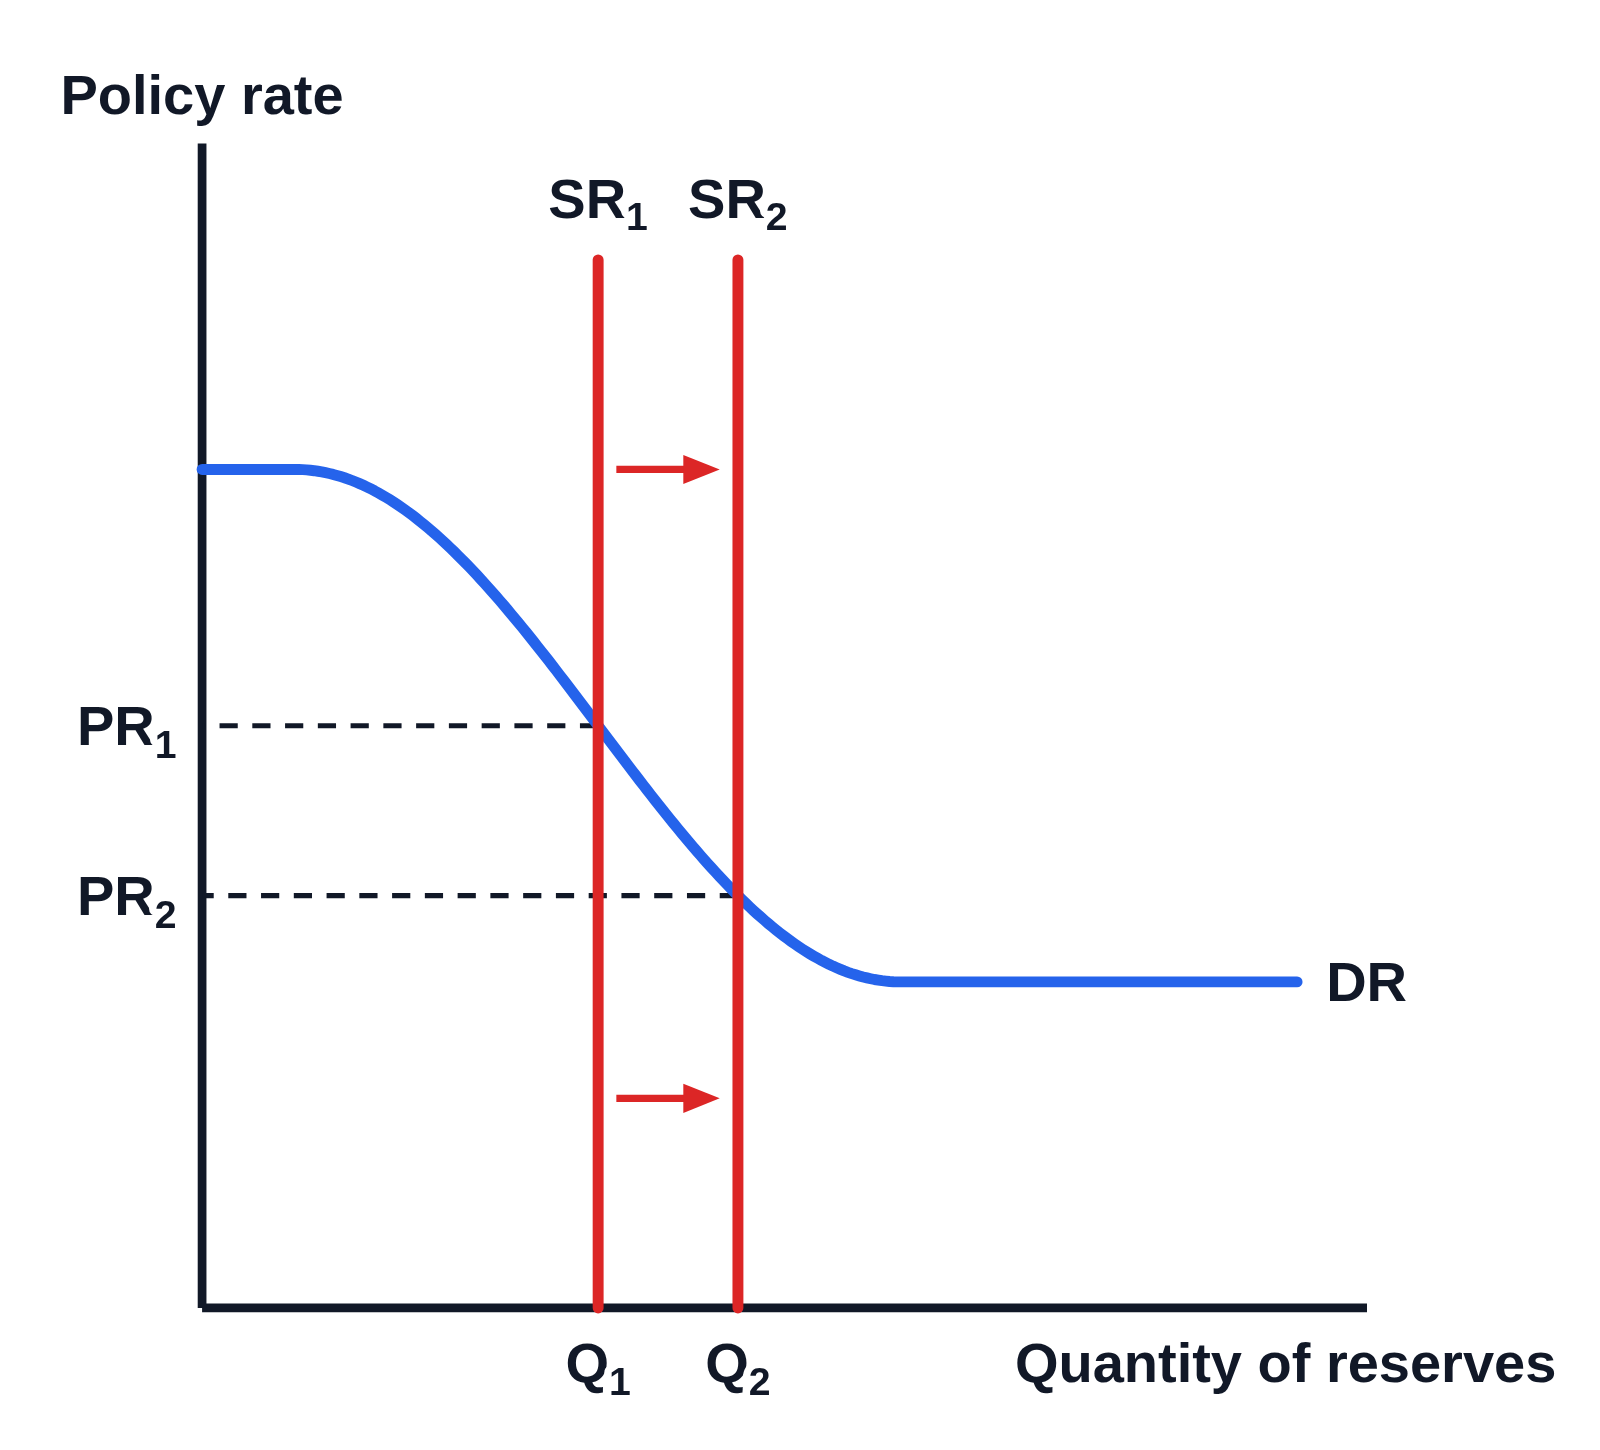
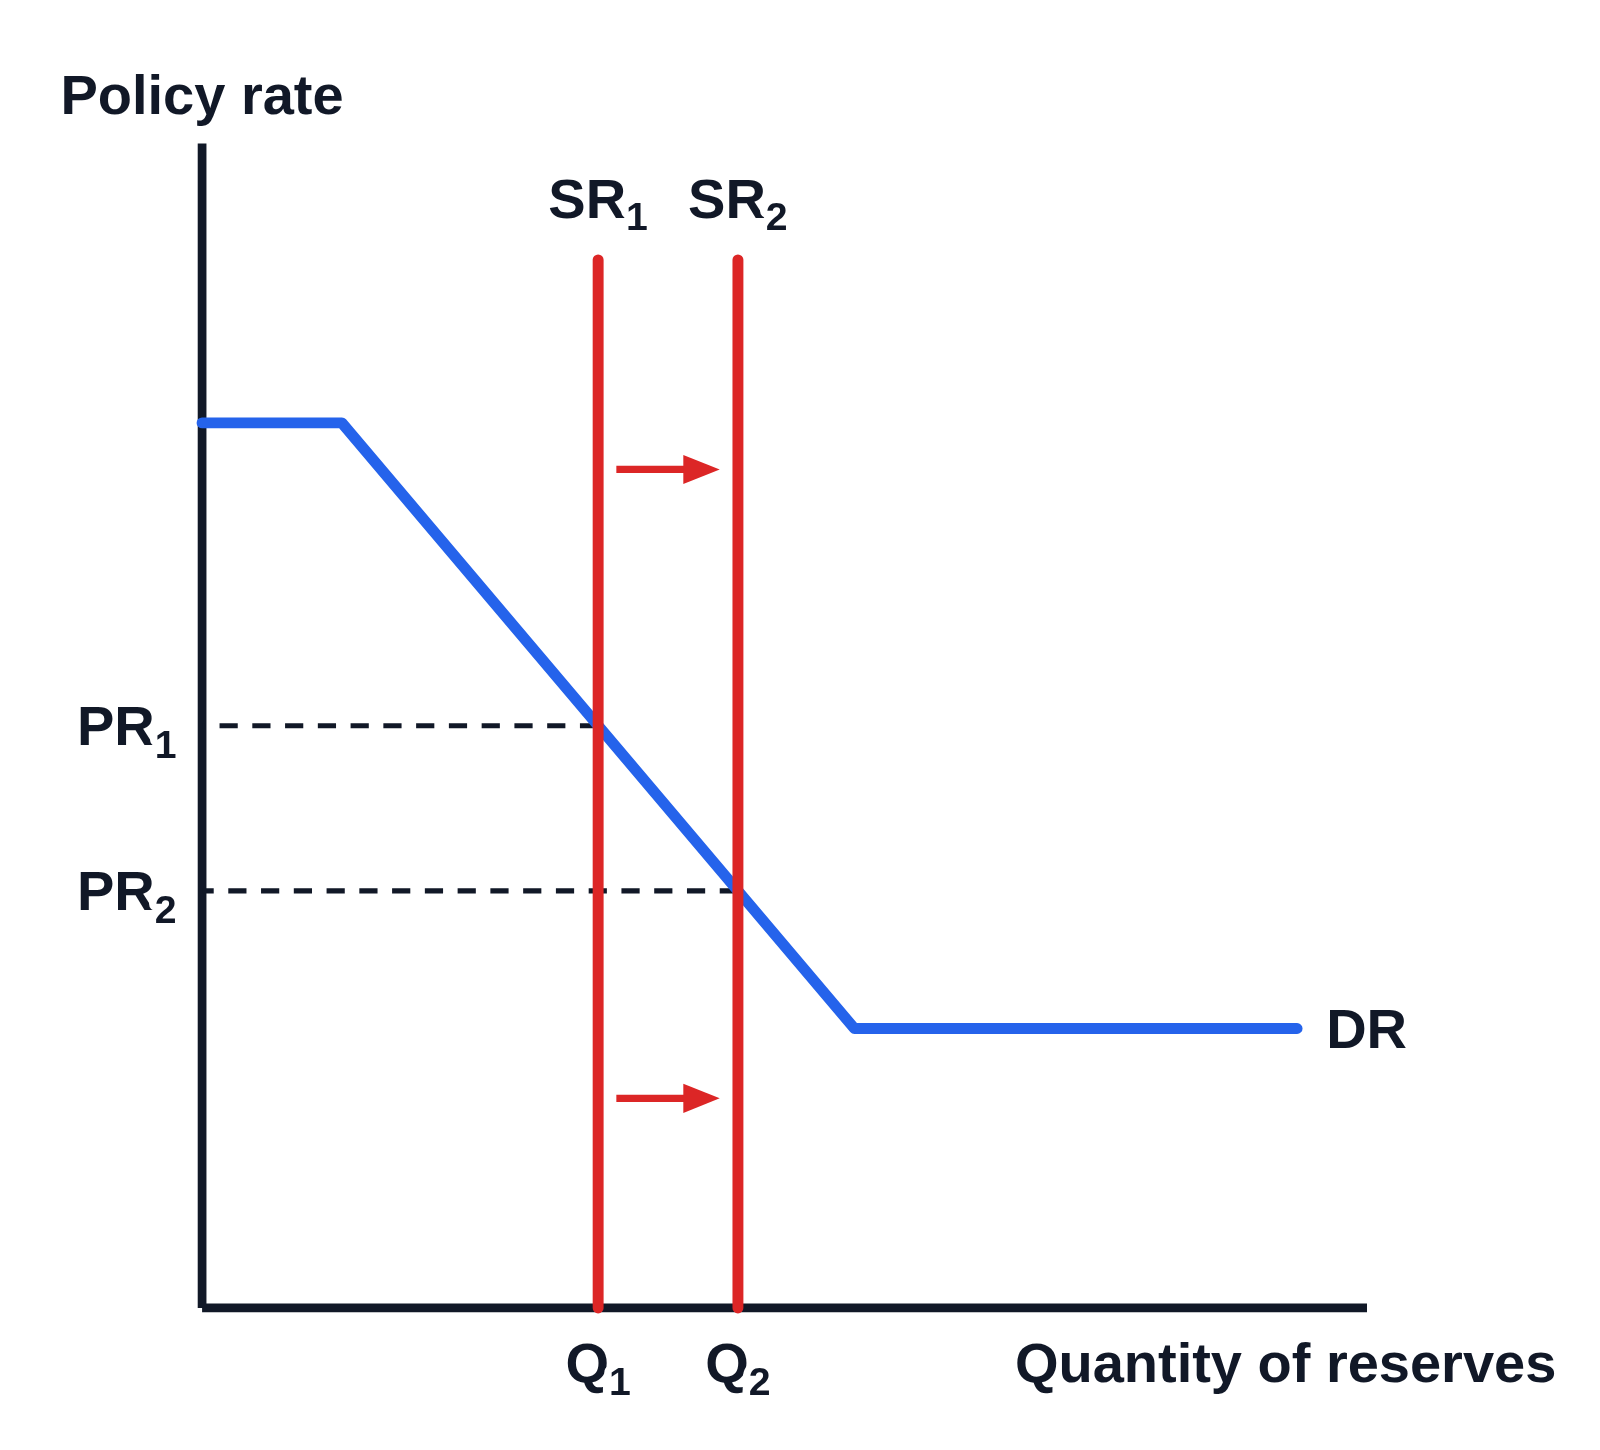
Econ Figures: Money Markets: the demand for reserves a straight slope with sharp corners, the limited reserves slope steeper

diff --git a/apps/economics/src/lib/generators/money-markets/figure.ts b/apps/economics/src/lib/generators/money-markets/figure.ts
@@ -9,7 +9,7 @@
 import { clipPath, type Point } from '$shared/graph/grid'
 import { besidePoint, type Spot } from '$shared/graph/labels'
 import { plainOf } from '$shared/graph/runs'
-import { along, crossings as crossingsOf, flatSlopeFlat, intersect, shifted, yAt, type Box, type Curve } from '$lib/graph/curves'
+import { along, crossings as crossingsOf, intersect, yAt, type Box, type Curve } from '$lib/graph/curves'
 import { buildFigure } from '$lib/graph/figure'
 import { inks, type ArrowSpec, type CurveSpec, type GuideSpec, type MarkSpec, type PanelSpec, type PointSpec, type Words } from '$lib/graph/panel'
 import { SCHEMATIC, nth, panelBase, wordsOf, type NumberFrom } from '$lib/graph/settings'
@@ -57,33 +57,28 @@ const STRAIGHT_BOTTOM = 0.3
  */
 export const RESERVES: Record<Regime, { x0: number; x1: number; high: number; low: number; supply: number }> = {
   ample: { x0: 2.1, x1: 3.38, high: 6.6, low: 3.4, supply: 7 },
-  limited: { x0: 0.8, x1: 6, high: 7.2, low: 2.8, supply: 3.4 },
+  limited: { x0: 1.2, x1: 5.6, high: 7.6, low: 2.4, supply: 3.4 },
 }
-/** How round the demand for reserves' corners are with ample reserves, in the graph's units up and down. */
-const CORNER = 0.6
+/** How far arrows on the demand for reserves' flat parts keep from its corners. */
+const CORNER_ROOM = 0.3
 
-/** Where the ample demand for reserves' straight slope, through (`x0`, `high`) and (`x1`, `low`), is at the rate `y`. */
+/** Where the demand for reserves' straight slope, through (`x0`, `high`) and (`x1`, `low`), is at the rate `y`. */
 export const slopeX = (R: (typeof RESERVES)[Regime], y: number) => R.x0 + ((R.high - y) * (R.x1 - R.x0)) / (R.high - R.low)
 
-/** The smaller of two values, rounded off within `k` of each other. */
-function softMin(a: number, b: number, k: number) {
-  const h = Math.max(k - Math.abs(a - b), 0) / k
-  return Math.min(a, b) - (h * h * k) / 4
-}
-
 /**
- * The demand for reserves with ample reserves, its rates `dy` up: one
- * straight slope that never moves, cut off by the discount rate over it
- * and the administered rate under it, with round corners. Raising the
- * rates moves both flat parts up, their corners up the slope, as AP draws it.
+ * The demand for reserves: flat, a straight slope, then flat, with sharp
+ * corners, as AP draws it. With limited reserves it moves `dx` across,
+ * slope and all. With ample reserves its rates move `dy` up and the slope
+ * stays where it is, cut off by the discount rate over it and the
+ * administered rate under it, so the corners move along it.
  */
-function ampleDemand(R: (typeof RESERVES)[Regime], dy: number): Curve {
+function reservesDemand(R: (typeof RESERVES)[Regime], dx: number, dy: number): Curve {
   const high = R.high + dy
   const low = R.low + dy
-  const line = (x: number) => R.high + ((x - R.x0) * (R.low - R.high)) / (R.x1 - R.x0)
-  const y = (x: number) => -softMin(-low, -softMin(high, line(x), CORNER), CORNER)
-  const xs = [-FAR, ...Array.from({ length: 601 }, (_, k) => -1 + k * 0.02), FAR]
-  return xs.map((x) => ({ x, y: x < -1 ? high : x > 11 ? low : y(x) }))
+  const kink = slopeX(R, low) + dx
+  // The flat bottom in short steps, so its end reads as flat where its name goes.
+  const bottom = Array.from({ length: Math.max(0, Math.ceil((BOX.x1 - kink) / 0.5)) }, (_, k) => ({ x: kink + (k + 1) * 0.5, y: low }))
+  return [{ x: -FAR, y: high }, { x: slopeX(R, high) + dx, y: high }, { x: kink, y: low }, ...bottom, { x: FAR, y: low }]
 }
 
 /**
@@ -186,11 +181,10 @@ export function buildMoneyMarkets(s: MoneyMarketsSettings) {
   const sStraight = g === 'funds' ? [straight(STRAIGHT.funds.supply), straight(STRAIGHT.funds.supply, sShift.dx)] : null
   const dStraight = g === 'money' ? STRAIGHT.money.demand : g === 'funds' ? STRAIGHT.funds.demand : null
   const dStraights = dStraight ? [straight(dStraight), straight(dStraight, dShift.dx)] : null
-  const reservesDemand = upDown ? ampleDemand(R, 0) : flatSlopeFlat(R.x0, R.x1, R.high, R.low, FAR, -FAR)
   const s1: Curve = sStraight ? sStraight[0].line : upright(q1)
   const s2: Curve = sStraight ? sStraight[1].line : upright(q1 + sShift.dx)
-  const d1: Curve = dStraights ? dStraights[0].line : reservesDemand
-  const d2: Curve = dStraights ? dStraights[1].line : upDown ? ampleDemand(R, dShift.dy) : shifted(reservesDemand, dShift.dx, dShift.dy)
+  const d1: Curve = dStraights ? dStraights[0].line : reservesDemand(R, 0, 0)
+  const d2: Curve = dStraights ? dStraights[1].line : reservesDemand(R, dShift.dx, dShift.dy)
 
   const e1 = intersect(s1, d1)
   const e2 = anyShift ? intersect(s2, d2) : e1
@@ -266,7 +260,7 @@ export function buildMoneyMarkets(s: MoneyMarketsSettings) {
     if (upDown) arrows.push(...reserveArrows(R, dShift.dy, s.arrows, [q1, q1 + sShift.dx], room, ink.demand))
     else {
       // The demand for reserves moved across has its arrows on its slope, clear of the flat parts it shares.
-      const run = sideways ? drawn(d1.filter((p) => p.x >= R.x0 && p.x <= R.x1), { ...DRAW, y0: R.low + SLOPE_ROOM / 2, y1: R.high - SLOPE_ROOM }) : dRuns[0]
+      const run = sideways ? drawn([{ x: R.x0, y: R.high }, { x: R.x1, y: R.low }], { ...DRAW, y0: R.low + SLOPE_ROOM / 2, y1: R.high - SLOPE_ROOM }) : dRuns[0]
       arrows.push(...clearArrows(run, dShift.dx, s.arrows, [s1, s2], room, ink.demand))
     }
   }
@@ -435,9 +429,9 @@ const roomFor = (from: Point, to: Point, room: Room, lenient = false, crowded = 
  */
 function reserveArrows(R: (typeof RESERVES)[Regime], dy: number, count: number, avoid: number[], room: Room, color: string): ArrowSpec[] {
   const { high, low } = R
-  // Where both curves' flat parts are flat, clear of their round corners.
-  const top = Math.min(slopeX(R, high), slopeX(R, high + dy)) - CORNER / 2
-  const bottom = Math.max(slopeX(R, low), slopeX(R, low + dy)) + CORNER / 2
+  // Where both curves' flat parts are flat, clear of their corners.
+  const top = Math.min(slopeX(R, high), slopeX(R, high + dy)) - CORNER_ROOM
+  const bottom = Math.max(slopeX(R, low), slopeX(R, low + dy)) + CORNER_ROOM
   // The stretches of the bottom with no supply curve in them, widest first.
   const cuts = [bottom, ...avoid.filter((x) => x > bottom && x < DRAW.x1).sort((a, b) => a - b), DRAW.x1]
   const stretches = cuts.slice(1).map((b, k) => ({ a: cuts[k], b })).sort((p, q) => q.b - q.a - (p.b - p.a))

diff --git a/apps/economics/src/lib/generators/money-markets/figure.test.ts b/apps/economics/src/lib/generators/money-markets/figure.test.ts
@@ -88,22 +88,20 @@ describe('money markets', () => {
     for (const demandDir of DIRECTIONS) {
       for (const demandSize of SHIFT_SIZES) {
         const p = panel({ graph: 'reserves', shift: 'demand', demandDir, demandSize })
-        const [d1, d2] = p.curves.slice(0, 2).map((c) => segmentsOf(c.paths).flatMap((l) => [{ x: l.x1, y: l.y1 }]))
-        // The points of each curve on its slope, clear of its round corners.
-        const slope = (pts: { x: number; y: number }[]) => {
+        const [d1, d2] = p.curves.slice(0, 2).map((c) => [...c.paths.join(' ').matchAll(/([\d.]+),([\d.]+)/g)].map((m) => ({ x: +m[1], y: +m[2] })))
+        // Each curve's sharp corners: the right end of its flat top and the left end of its flat bottom.
+        const corners = (pts: { x: number; y: number }[]) => {
           const top = Math.min(...pts.map((q) => q.y))
           const bottom = Math.max(...pts.map((q) => q.y))
-          const room = (bottom - top) * 0.25
-          return pts.filter((q) => q.y > top + room && q.y < bottom - room)
+          return [pts.filter((q) => q.y === top).at(-1)!, pts.find((q) => q.y === bottom)!]
         }
-        const [a, b] = [slope(d1), slope(d2)]
-        const line = { x1: a[0].x, y1: a[0].y, x2: a.at(-1)!.x, y2: a.at(-1)!.y }
-        // Both slopes on the same line, DR₂'s corners further along it.
-        for (const q of b) {
-          const t = (q.y - line.y1) / (line.y2 - line.y1)
-          expect([demandDir, demandSize, Math.abs(line.x1 + t * (line.x2 - line.x1) - q.x) < 0.5]).toEqual([demandDir, demandSize, true])
+        const [[a1, a2], [b1, b2]] = [corners(d1), corners(d2)]
+        // DR₂'s corners on DR₁'s slope, further along it.
+        for (const q of [b1, b2]) {
+          const x = a1.x + ((q.y - a1.y) / (a2.y - a1.y)) * (a2.x - a1.x)
+          expect([demandDir, demandSize, Math.abs(x - q.x) < 0.5]).toEqual([demandDir, demandSize, true])
         }
-        expect(Math.abs(b[0].x - a[0].x)).toBeGreaterThan(5)
+        expect(Math.abs(b1.x - a1.x)).toBeGreaterThan(5)
       }
     }
   })
